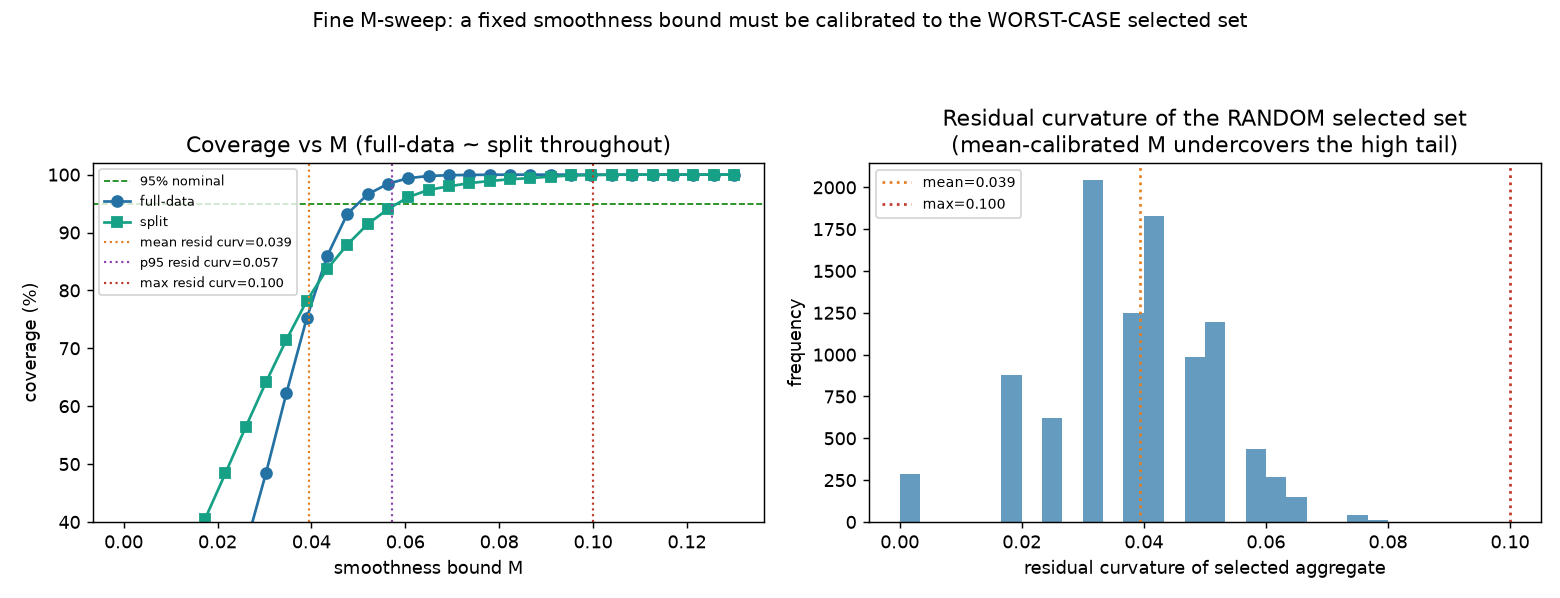
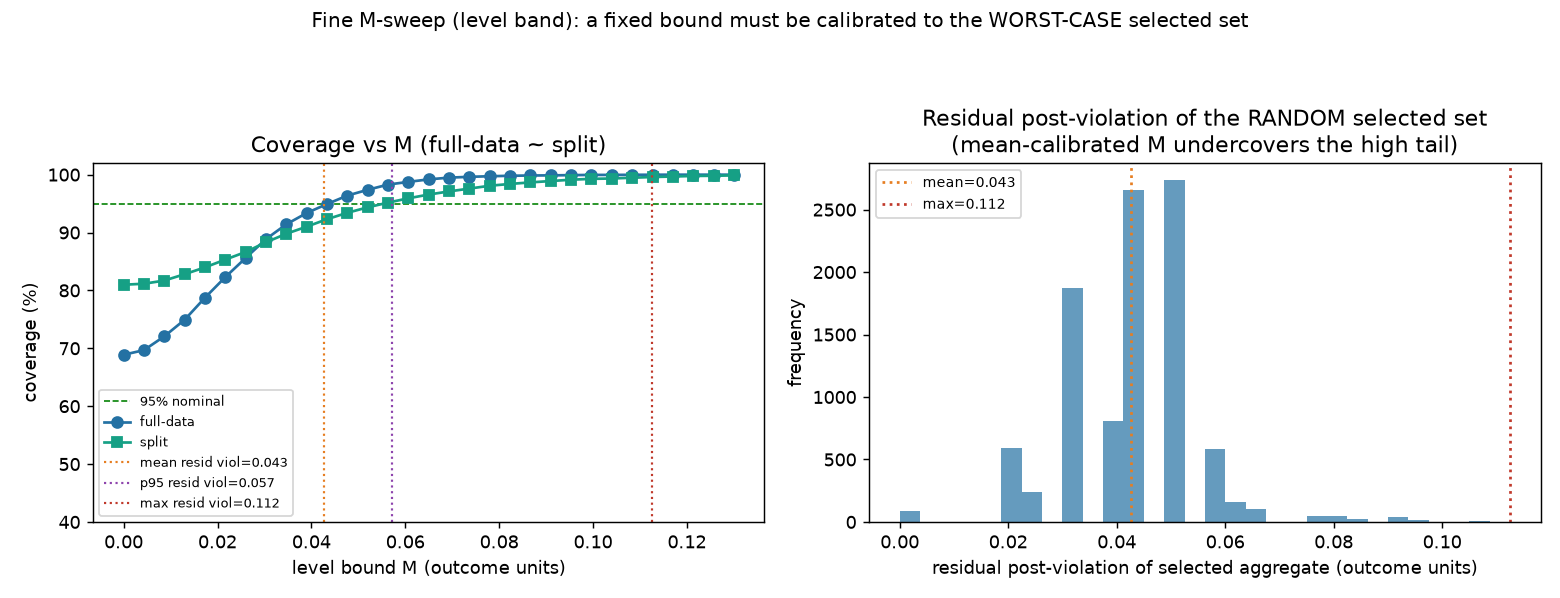
R4b: level-band calibration sim (m_sweep) + validity confirmed
m_sweep now applies the level band (raw post-avg, max bias M in outcome units) to
the flatness-screened aggregate. Residual post-violation of the random selected set:
mean 0.043, p95 0.057, max 0.112. Full and split cross nominal at nearly the same M
(0.048 vs 0.056), near the p95 -> calibrate to the worst case, not the mean.

Level-band validity confirmed separately (flat pre): FLCI covers iff M >= V
(95% at M=V, ~100% above, ~9% below), point CI collapses.

diff --git a/m_sweep.py b/m_sweep.py
@@ -1,9 +1,13 @@
 """
-Fine M-sweep: pin down the composition-randomness finding.
-Coverage of the selected LATT vs the smoothness bound M, full-data vs split, with the
-residual-curvature distribution of the (random) selected set marked. Claim to confirm:
-coverage reaches 95% near the WORST-CASE (max/high-percentile) residual curvature, not
-the mean -> M must be calibrated to the worst-case selected composition.
+Fine M-sweep (level band): calibration to the random selected set.
+Coverage of the selected LATT vs the level bound M, full-data vs split, with the
+residual-violation distribution of the (random) selected set marked. Claim to confirm:
+coverage reaches 95% near the WORST-CASE (high-percentile) residual violation, not the
+mean -> M must be calibrated to the worst-case selected composition.
+
+Level/flatness world: confounded cohorts carry a post-treatment level violation; the
+FLATNESS screen keeps near-flat cohorts; the level band Delta_Level(M)={|delta_post|<=M}
+is applied to the selected aggregate (estimator = raw post-average). M is in outcome units.
 """
 import numpy as np
 from scipy.stats import norm
@@ -11,50 +15,49 @@ import matplotlib; matplotlib.use("Agg")
 import matplotlib.pyplot as plt
 import layer2_full as L2
 
-TARGET_E = 3
-l_post = np.zeros(L2.npost); l_post[TARGET_E-1] = 1.0
-L2.V_VEC, L2.W_PRE = L2.extrapolation_weights(l_post)
-bbar1 = L2.max_bias_SD(L2.V_VEC, 1.0)
 npre, npost = L2.npre, L2.npost
-z = norm.ppf(0.975); pre_e, post_e = L2.pre_e, L2.post_e
+l_post = np.ones(npost) / npost
+z = norm.ppf(0.975)
 
-def cohort_delta(C): return np.array([0.5*C*(e**2) for e in np.concatenate([pre_e, post_e])])
-def within_cov(sigma, rho, n):
-    idx=np.arange(n); R=rho**np.abs(idx[:,None]-idx[None,:]); return (sigma**2)*R
-
-# Curvature screen: a second difference is a noisier functional than a level, so the screen
-# needs more per-cohort precision than the old level screen to select reliably (sigma 0.10 -> 0.07);
-# at sigma=0.07 the degenerate "no cohort passes" guard never fires. c_sel is on the curvature scale.
-C_marg, C_dirty, sigma, rho, c_sel = 0.10, 0.35, 0.07, 0.5, 0.22
+V_marg, V_dirty, sigma, rho, c_sel = 0.10, 0.35, 0.10, 0.5, 0.22
 G = 12
-curv = np.array([0]*4 + [C_marg]*4 + [C_dirty]*4, float)
+Vvec = np.array([0]*4 + [V_marg]*4 + [V_dirty]*4, float)     # 4 clean, 4 marginal, 4 dirty
 tau = np.concatenate([np.zeros(npre), np.ones(npost)])
-means = np.array([tau + cohort_delta(c) for c in curv])
-Sc = within_cov(sigma, rho, npre+npost); Lc = np.linalg.cholesky(Sc)
+
+
+def confound(Vv, phi):
+    return np.concatenate([np.full(npre, phi * Vv), np.full(npost, Vv)])
+
+
+def within_cov(sig, rr, n):
+    idx = np.arange(n); R = rr ** np.abs(idx[:, None] - idx[None, :]); return (sig ** 2) * R
+
+
+means = np.array([tau + confound(v, 1.0) for v in Vvec])       # phi=1 (violation visible pre and post)
+Sc = within_cov(sigma, rho, npre + npost); Lc = np.linalg.cholesky(Sc)
+sigma_post1 = np.sqrt(l_post @ Sc[npre:, npre:] @ l_post)
 rng = np.random.default_rng(5)
 
-M_grid = np.linspace(0.0, 0.13, 31)   # extended: curvature screen admits a higher residual-curvature tail
+M_grid = np.linspace(0.0, 0.13, 31)
 n_reps = 10000
 
-# pre-draw selections to also collect residual-curvature distribution
 resid_list = []
-cov_full = {M:0 for M in M_grid}; cov_split = {M:0 for M in M_grid}
+cov_full = {M: 0 for M in M_grid}; cov_split = {M: 0 for M in M_grid}
 for _ in range(n_reps):
-    B = means + (Lc @ rng.standard_normal((npre+npost, G))).T
-    stat = L2.max_abs_second_diff(B[:, :npre])           # curvature screen: same functional SD(M) bounds
+    B = means + (Lc @ rng.standard_normal((npre + npost, G))).T
+    stat = np.max(np.abs(B[:, :npre]), axis=1)                 # FLATNESS screen
     sel = stat <= c_sel
-    if sel.sum()==0: sel = (stat == stat.min())          # degenerate: keep the single most credible cohort
-    resid_list.append(curv[sel].mean())
-    agg = B[sel].mean(0); sv = np.sqrt(L2.V_VEC @ (Sc/sel.sum()) @ L2.V_VEC); c = float(L2.V_VEC@agg)
-    B1 = means + (Lc @ rng.standard_normal((npre+npost, G))).T*np.sqrt(2)
-    B2 = means + (Lc @ rng.standard_normal((npre+npost, G))).T*np.sqrt(2)
-    stat2 = L2.max_abs_second_diff(B1[:, :npre])         # curvature screen (split half)
-    s2 = stat2 <= c_sel
-    if s2.sum()==0: s2 = (stat2 == stat2.min())
-    agg2 = B2[s2].mean(0); sv2 = np.sqrt(L2.V_VEC @ (2*Sc/s2.sum()) @ L2.V_VEC); c2 = float(L2.V_VEC@agg2)
+    if sel.sum() == 0: sel = (stat == stat.min())
+    resid_list.append(Vvec[sel].mean())                        # residual post-violation (outcome units)
+    center = (B[sel][:, npre:] @ l_post).mean(); sv = sigma_post1 / np.sqrt(sel.sum())
+    B1 = means + (Lc @ rng.standard_normal((npre + npost, G))).T * np.sqrt(2)
+    B2 = means + (Lc @ rng.standard_normal((npre + npost, G))).T * np.sqrt(2)
+    stat1 = np.max(np.abs(B1[:, :npre]), axis=1); s2 = stat1 <= c_sel
+    if s2.sum() == 0: s2 = (stat1 == stat1.min())
+    center2 = (B2[s2][:, npre:] @ l_post).mean(); sv2 = (sigma_post1 * np.sqrt(2)) / np.sqrt(s2.sum())
     for M in M_grid:
-        h = L2.cv((M*bbar1)/sv)*sv;  cov_full[M]  += (c-h <= 1.0 <= c+h)
-        h2 = L2.cv((M*bbar1)/sv2)*sv2; cov_split[M] += (c2-h2 <= 1.0 <= c2+h2)
+        _, h = L2.flci_level(center, sv, M); cov_full[M] += (center - h <= 1.0 <= center + h)
+        _, h2 = L2.flci_level(center2, sv2, M); cov_split[M] += (center2 - h2 <= 1.0 <= center2 + h2)
 
 resid = np.array(resid_list)
 cf = np.array([100*cov_full[M]/n_reps for M in M_grid])
@@ -62,32 +65,30 @@ cs = np.array([100*cov_split[M]/n_reps for M in M_grid])
 r_mean, r_p95, r_max = resid.mean(), np.percentile(resid, 95), resid.max()
 
 def crossM(cov):
-    ok = np.where(cov >= 95)[0]
-    return M_grid[ok[0]] if len(ok) else np.nan
-print(f"residual curvature: mean={r_mean:.3f}  p95={r_p95:.3f}  max={r_max:.3f}")
+    ok = np.where(cov >= 95)[0]; return M_grid[ok[0]] if len(ok) else np.nan
+print(f"residual violation: mean={r_mean:.3f}  p95={r_p95:.3f}  max={r_max:.3f}")
 print(f"M for 95% coverage: full={crossM(cf):.3f}  split={crossM(cs):.3f}")
 print(f"max |full-split| coverage gap across M = {np.max(np.abs(cf-cs)):.1f} pp")
 
 fig, ax = plt.subplots(1, 2, figsize=(12, 4.6))
-fig.suptitle("Fine M-sweep: a fixed smoothness bound must be calibrated to the WORST-CASE selected set",
+fig.suptitle("Fine M-sweep (level band): a fixed bound must be calibrated to the WORST-CASE selected set",
              fontsize=11)
 a = ax[0]
 a.axhline(95, color="green", ls="--", lw=.9, label="95% nominal")
 a.plot(M_grid, cf, "o-", color="#2471a3", label="full-data")
 a.plot(M_grid, cs, "s-", color="#16a085", label="split")
-a.axvline(r_mean, color="#e67e22", ls=":", lw=1.2, label=f"mean resid curv={r_mean:.3f}")
-a.axvline(r_p95, color="#8e44ad", ls=":", lw=1.2, label=f"p95 resid curv={r_p95:.3f}")
-a.axvline(r_max, color="#c0392b", ls=":", lw=1.2, label=f"max resid curv={r_max:.3f}")
-a.set_title("Coverage vs M (full-data ~ split throughout)")
-a.set_xlabel("smoothness bound M"); a.set_ylabel("coverage (%)"); a.set_ylim(40, 102)
-a.legend(fontsize=7)
+a.axvline(r_mean, color="#e67e22", ls=":", lw=1.2, label=f"mean resid viol={r_mean:.3f}")
+a.axvline(r_p95, color="#8e44ad", ls=":", lw=1.2, label=f"p95 resid viol={r_p95:.3f}")
+a.axvline(r_max, color="#c0392b", ls=":", lw=1.2, label=f"max resid viol={r_max:.3f}")
+a.set_title("Coverage vs M (full-data ~ split)")
+a.set_xlabel("level bound M (outcome units)"); a.set_ylabel("coverage (%)"); a.set_ylim(40, 102); a.legend(fontsize=7)
 
 a = ax[1]
 a.hist(resid, bins=30, color="#2471a3", alpha=.7)
 a.axvline(r_mean, color="#e67e22", ls=":", lw=1.5, label=f"mean={r_mean:.3f}")
 a.axvline(r_max, color="#c0392b", ls=":", lw=1.5, label=f"max={r_max:.3f}")
-a.set_title("Residual curvature of the RANDOM selected set\n(mean-calibrated M undercovers the high tail)")
-a.set_xlabel("residual curvature of selected aggregate"); a.set_ylabel("frequency"); a.legend(fontsize=8)
+a.set_title("Residual post-violation of the RANDOM selected set\n(mean-calibrated M undercovers the high tail)")
+a.set_xlabel("residual post-violation of selected aggregate (outcome units)"); a.set_ylabel("frequency"); a.legend(fontsize=8)
 
 plt.tight_layout(rect=[0, 0, 1, 0.92]); plt.savefig("m_sweep.png", dpi=130)
 print("Saved -> m_sweep.png")
